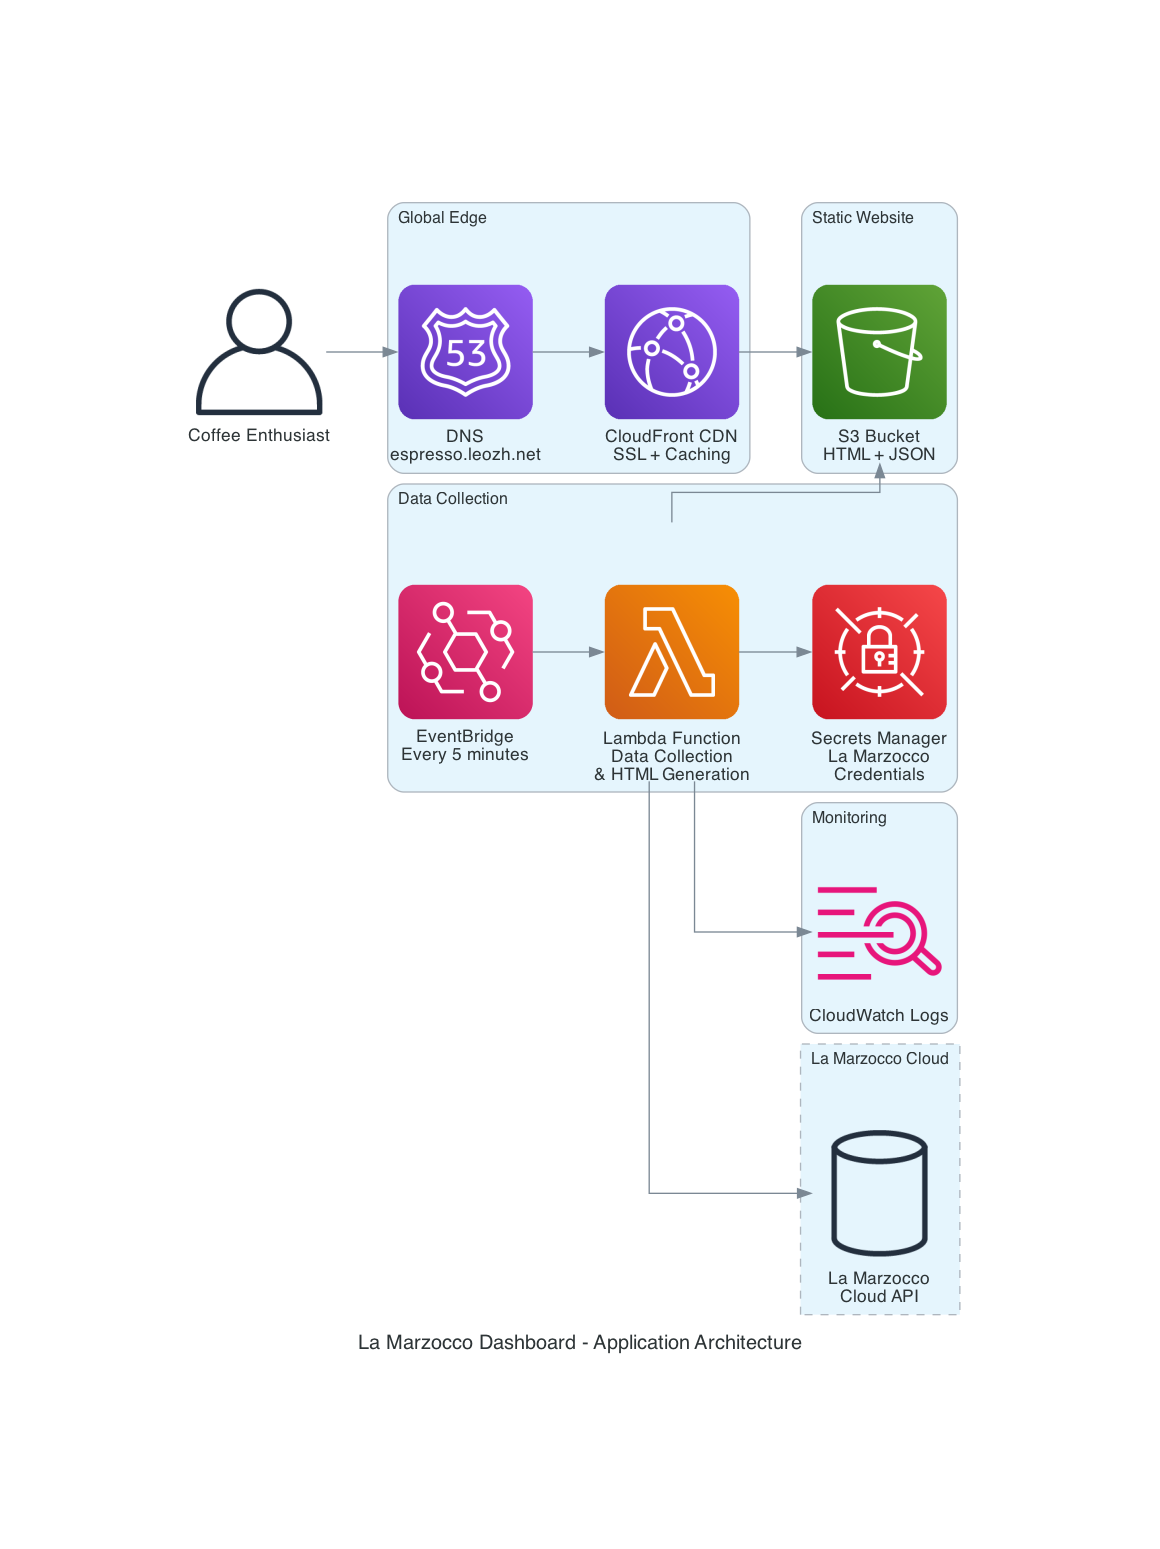
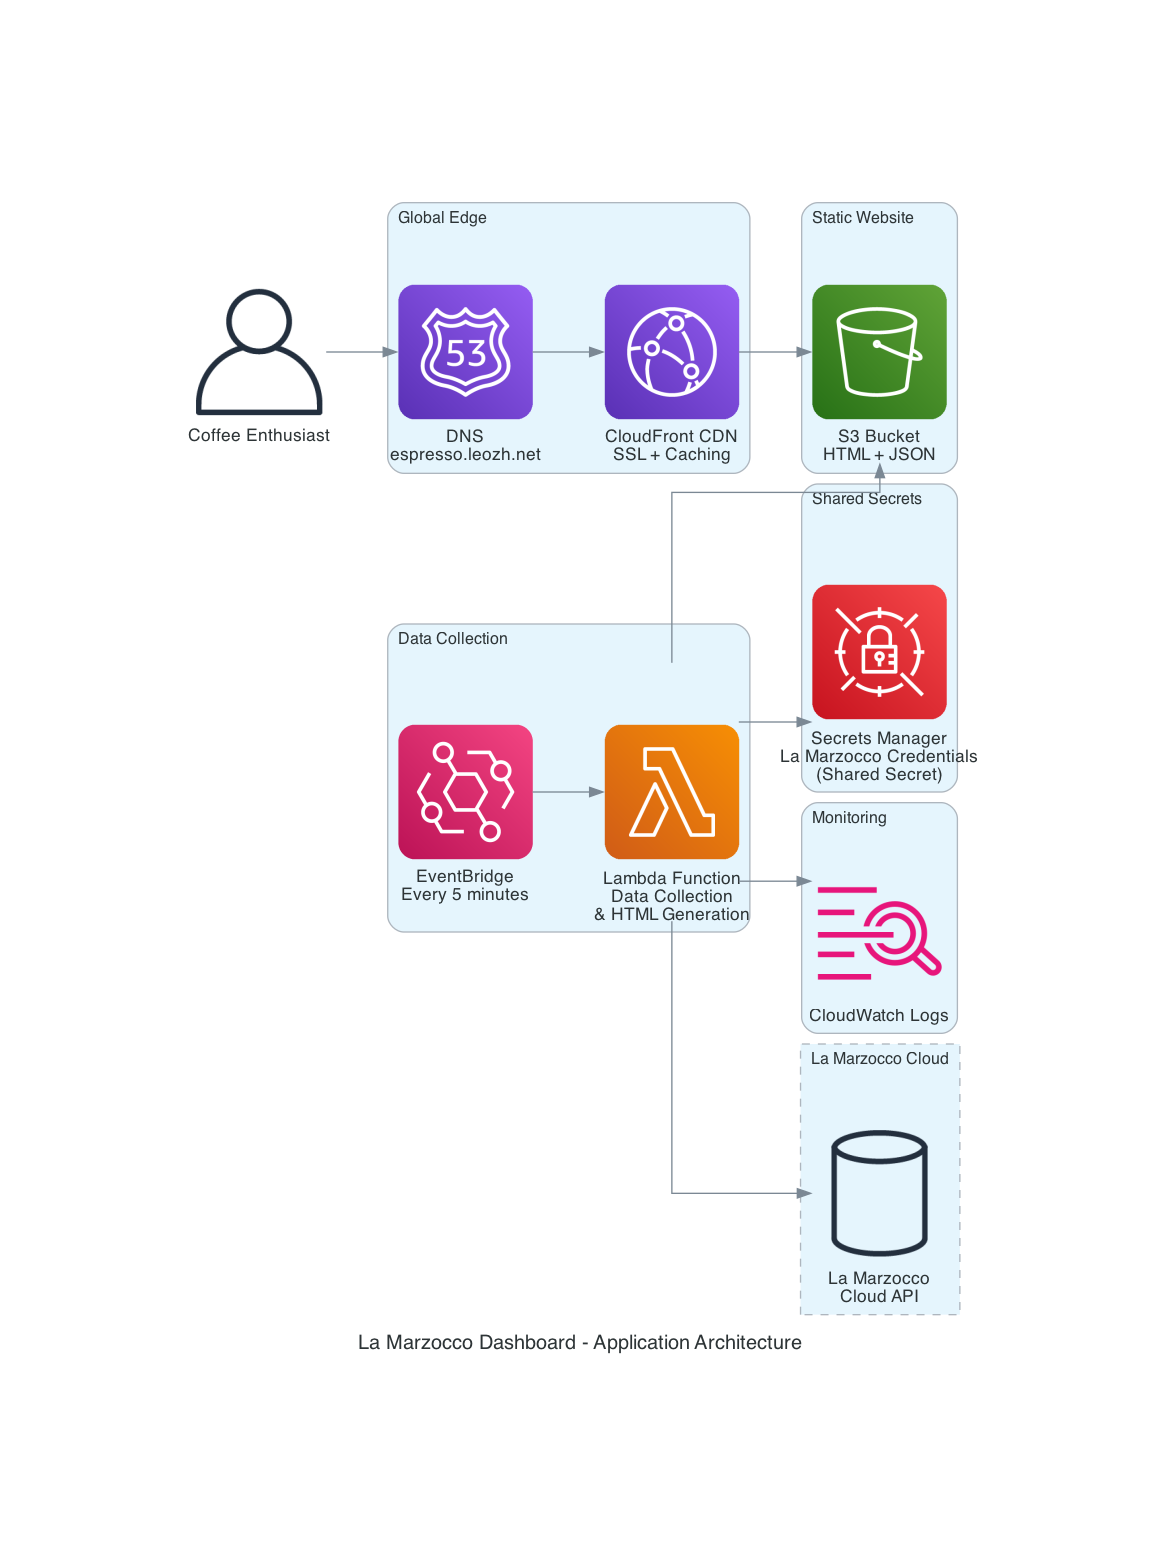
Add comprehensive documentation updates and CHANGELOG
Documentation Updates:
- Add CHANGELOG.md with detailed version history and migration guide
- Update README with complete secrets management documentation
- Add GitHub token setup instructions and requirements
- Document both La Marzocco credentials and GitHub token secrets
- Add CHANGELOG reference to project structure and support sections

Architecture Diagram Updates:
- Update application architecture diagram to show consolidated secrets
- Update CI/CD pipeline diagram to show shared secrets management
- Both diagrams now accurately reflect the new secrets architecture

Secrets Management Documentation:
- Document La Marzocco credentials secret (created by pipeline)
- Document GitHub token secret (pre-existing requirement)
- Add setup instructions for both secrets
- Clarify GitHub token requirements (repo scope, PAT format)
- Add troubleshooting guidance for secret configuration

CHANGELOG Features:
- Follows Keep a Changelog format
- Documents breaking changes and migration requirements
- Includes technical details and cost optimization information
- Provides clear upgrade path for existing deployments
- Documents all major changes from v1.0.0 to v2.0.0

This completes the documentation consolidation and provides users with
comprehensive guidance for both initial setup and ongoing maintenance.

Changed region(s): [[0.3103, 0.3099, 0.8379, 0.7747]]

diff --git a/CHANGELOG.md b/CHANGELOG.md
@@ -1,0 +1,131 @@
+# Changelog
+
+All notable changes to the La Marzocco Dashboard project will be documented in this file.
+
+The format is based on [Keep a Changelog](https://keepachangelog.com/en/1.0.0/),
+and this project adheres to [Semantic Versioning](https://semver.org/spec/v2.0.0.html).
+
+## [2.0.0] - 2025-07-06
+
+### 🚀 Major Changes
+
+#### **BREAKING CHANGE: Consolidated Secrets Management**
+- **Consolidated La Marzocco credentials into single shared secret**
+- Pipeline template now creates shared secret used by both deployment and runtime
+- Reduced Secrets Manager costs by 50% (1 secret instead of 2)
+- **Migration Required**: Existing deployments need to update their secrets after this change
+
+### Added
+- **Comprehensive Documentation**
+  - Consolidated all markdown files into single comprehensive README.md
+  - Added visual architecture diagrams for both application and CI/CD pipeline
+  - Added CHANGELOG.md for tracking project changes
+  - Updated documentation to reflect consolidated secrets management
+
+- **Architecture Diagrams**
+  - Application architecture diagram showing serverless components and shared secrets
+  - CI/CD pipeline architecture diagram showing GitOps workflow with consolidated secrets
+  - Both diagrams generated using AWS architecture diagram MCP
+
+- **Enhanced Secret Management**
+  - Single shared secret for La Marzocco credentials (`la-marzocco-deployment-pipeline-lamarzocco-credentials`)
+  - GitHub token stored in Secrets Manager (`la-marzocco-github-token`)
+  - Proper documentation of both secrets and their setup requirements
+
+### Changed
+- **CloudFormation Templates**
+  - **Pipeline Template**: Now creates shared La Marzocco credentials secret
+  - **Main Template**: Accepts secret name as parameter instead of creating duplicate secret
+  - Updated IAM permissions to reference shared secret
+  - Simplified parameter passing between templates
+
+- **Documentation Structure**
+  - Removed redundant markdown files: `PROJECT_STRUCTURE.md`, `SUMMARY.md`, `QUICKSTART.md`, `AWS_PROFILE_USAGE.md`
+  - Consolidated all information into comprehensive README.md
+  - Added machine compatibility information (works with various La Marzocco machines/grinders)
+  - Updated cost breakdown to reflect accurate pricing (~$2.75/month)
+
+- **Environment Variable Consistency**
+  - Added `AWS_REGION` export to setup instructions
+  - Use environment variables consistently throughout all commands (`$AWS_PROFILE`, `$AWS_REGION`)
+  - Replaced hardcoded regions with configurable variables
+  - Added brackets around CLI profile placeholders for clarity (`<your-profile>`)
+
+- **Data Collection Accuracy**
+  - Updated "Data Collected" section to match actual Lambda function output
+  - Added comprehensive machine info, brewing settings, recent shots, and maintenance data
+  - Reflects real API response structure from La Marzocco Cloud API
+
+### Fixed
+- **Cost Consistency**: Standardized cost references to ~$2.75/month throughout documentation
+- **Region Flexibility**: Made AWS region configurable instead of hardcoded to us-west-2
+- **Secret Management**: Eliminated duplicate credential storage and management complexity
+- **Footer Links**: Added clickable links to AWS Lambda and pylamarzocco GitHub repository
+
+### Technical Details
+
+#### **Secret Management Architecture**
+```
+Pipeline Stack (Creates Secret) → Main Stack (Uses Secret) → Lambda (Reads Secret)
+```
+
+#### **Required Secrets**
+1. **La Marzocco Credentials** (`la-marzocco-deployment-pipeline-lamarzocco-credentials`)
+   - Format: `{"username": "your-email", "password": "your-password"}`
+   - Used by: Pipeline deployment and Lambda function
+   - Created by: Pipeline CloudFormation template
+
+2. **GitHub Token** (`la-marzocco-github-token`)
+   - Format: `{"token": "your-github-token"}`
+   - Used by: CodePipeline for GitHub integration
+   - Created by: Manual setup (pre-existing)
+
+#### **Cost Optimization**
+- **Before**: 2 secrets × $0.40/month = $0.80/month
+- **After**: 1 secret × $0.40/month = $0.40/month
+- **Savings**: $0.40/month (50% reduction in secret costs)
+
+#### **Migration Guide**
+For existing deployments:
+1. Deploy updated pipeline template (creates shared secret)
+2. Update shared secret with La Marzocco credentials
+3. Pipeline will automatically deploy updated main template
+4. Old duplicate secrets can be cleaned up manually
+
+### Infrastructure
+- **AWS Services**: Lambda, EventBridge, S3, CloudFront, Route53, Secrets Manager, CodePipeline, CodeBuild
+- **Runtime**: Python 3.11+ with pylamarzocco library
+- **Deployment**: GitOps via AWS CodePipeline
+- **Monitoring**: CloudWatch Logs and metrics
+
+---
+
+## [1.0.0] - 2025-07-05
+
+### Added
+- Initial release of La Marzocco Dashboard
+- Serverless architecture with AWS Lambda and EventBridge
+- Real-time machine monitoring via La Marzocco Cloud API
+- Static website hosting with S3 and CloudFront
+- CI/CD pipeline with CodePipeline and CodeBuild
+- Comprehensive documentation and setup guides
+- Mobile-responsive dark theme dashboard
+- JSON API endpoint for integrations
+- Automatic updates every 5 minutes
+
+### Features
+- **Real-time machine status** (power, temperature, water level)
+- **Usage statistics** (total shots, flushes, last activity)
+- **Machine settings** (auto on/off, dosing preferences)
+- **Maintenance alerts** (descaling, cleaning needed)
+- **Beautiful dark theme** optimized for coffee shops
+- **Auto-refresh** every 5 minutes
+- **JSON API endpoint** for integrations
+- **Mobile responsive** design
+
+### Infrastructure
+- **Cost**: ~$2.75/month
+- **Uptime**: 99.95% SLA (AWS managed)
+- **Security**: HTTPS only, credentials in Secrets Manager
+- **Performance**: Global CDN with CloudFront
+- **Maintenance**: Zero maintenance required

diff --git a/README.md b/README.md
@@ -89,12 +89,15 @@ export AWS_REGION=<your-aws-region>
 
 This creates the CI/CD pipeline that will automatically deploy your application from GitHub.
 
-### 3. Configure La Marzocco Credentials
+### 3. Configure Secrets in AWS Secrets Manager
 
-After the pipeline is deployed, you need to add your La Marzocco credentials to AWS Secrets Manager:
+The pipeline uses two secrets stored in AWS Secrets Manager:
+
+#### **La Marzocco Credentials** (Created by Pipeline)
+After the pipeline is deployed, you need to add your La Marzocco credentials:
 
 ```bash
-# Find your secret name (it will be something like la-marzocco-deployment-pipeline-lamarzocco-credentials)
+# Find your La Marzocco secret name
 aws secretsmanager list-secrets \
   --region $AWS_REGION \
   --query 'SecretList[?contains(Name, `lamarzocco-credentials`)].Name' \
@@ -107,9 +110,36 @@ aws secretsmanager update-secret \
   --region $AWS_REGION
 ```
 
-**Important**: Replace `<your-profile-name>` with your AWS CLI profile name, `<your-aws-region>` with your deployment region, and use your actual La Marzocco Cloud credentials.
+#### **GitHub Token** (Pre-existing)
+The pipeline also requires a GitHub personal access token for repository access:
 
-**Note**: The pipeline creates a single shared secret that both the deployment process and the Lambda function use, avoiding duplicate credential storage.
+```bash
+# Check if GitHub token secret exists
+aws secretsmanager describe-secret \
+  --secret-id la-marzocco-github-token \
+  --region $AWS_REGION
+
+# If it doesn't exist, create it with your GitHub token
+aws secretsmanager create-secret \
+  --name la-marzocco-github-token \
+  --description "GitHub token for pipeline access" \
+  --secret-string '{"token":"your-github-personal-access-token"}' \
+  --region $AWS_REGION
+```
+
+**GitHub Token Requirements:**
+- **Scope**: `repo` (Full control of private repositories)
+- **Format**: Personal Access Token (classic)
+- **Permissions**: Read access to your la-marzocco-dashboard repository
+
+**Important**: Replace placeholders with your actual credentials:
+- `<your-profile-name>`: Your AWS CLI profile name
+- `<your-aws-region>`: Your deployment region  
+- `your-lamarzocco-username`: Your La Marzocco Cloud email
+- `your-lamarzocco-password`: Your La Marzocco Cloud password
+- `your-github-personal-access-token`: Your GitHub PAT
+
+**Note**: The pipeline creates a single shared La Marzocco secret that both the deployment process and the Lambda function use, avoiding duplicate credential storage.
 
 ### 4. Deploy Application (via Git)
 
@@ -215,7 +245,8 @@ la-marzocco-dashboard/
 ├── requirements.txt           # Python dependencies
 ├── .env.example              # Environment template
 ├── .gitignore                # Git ignore rules
-└── README.md                 # This file
+├── README.md                 # This file
+└── CHANGELOG.md              # Project change history
 ```
 
 ## Customization
@@ -437,6 +468,10 @@ AWS_PROFILE=<your-profile-name> AWS_REGION=<your-aws-region> ./deploy-pipeline.s
 If no profile is specified, scripts use your default AWS CLI profile and the region from your `.env` file.
 
 ## Support
+
+### Project Documentation
+- **README.md**: Complete project documentation (this file)
+- **CHANGELOG.md**: Detailed change history and version information
 
 ### AWS Documentation
 - [CloudFormation User Guide](https://docs.aws.amazon.com/cloudformation/)
